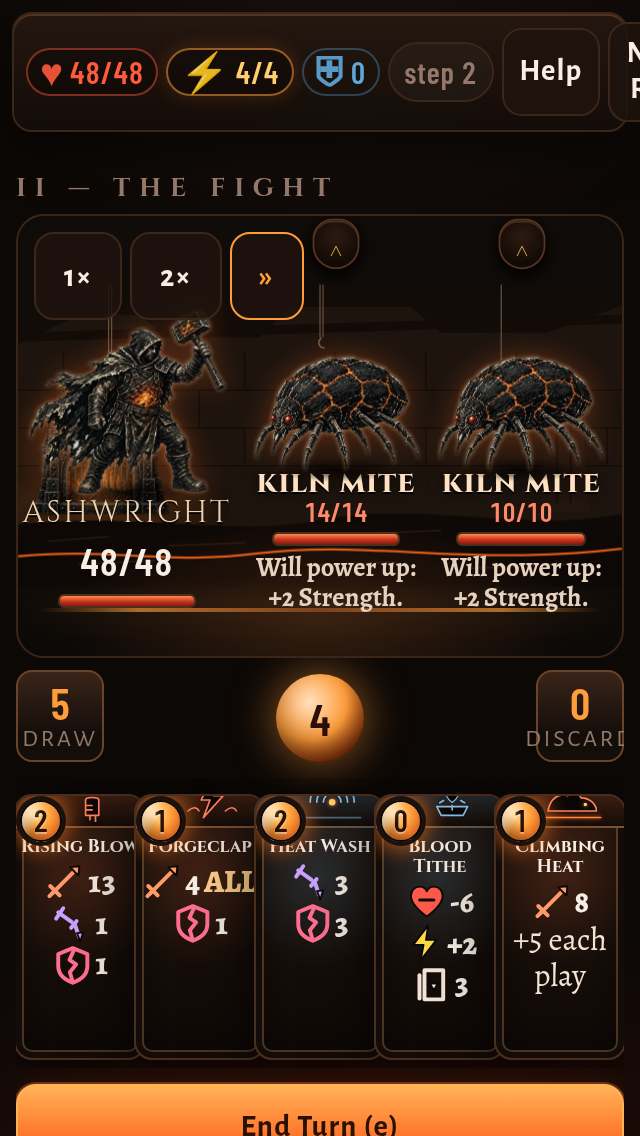
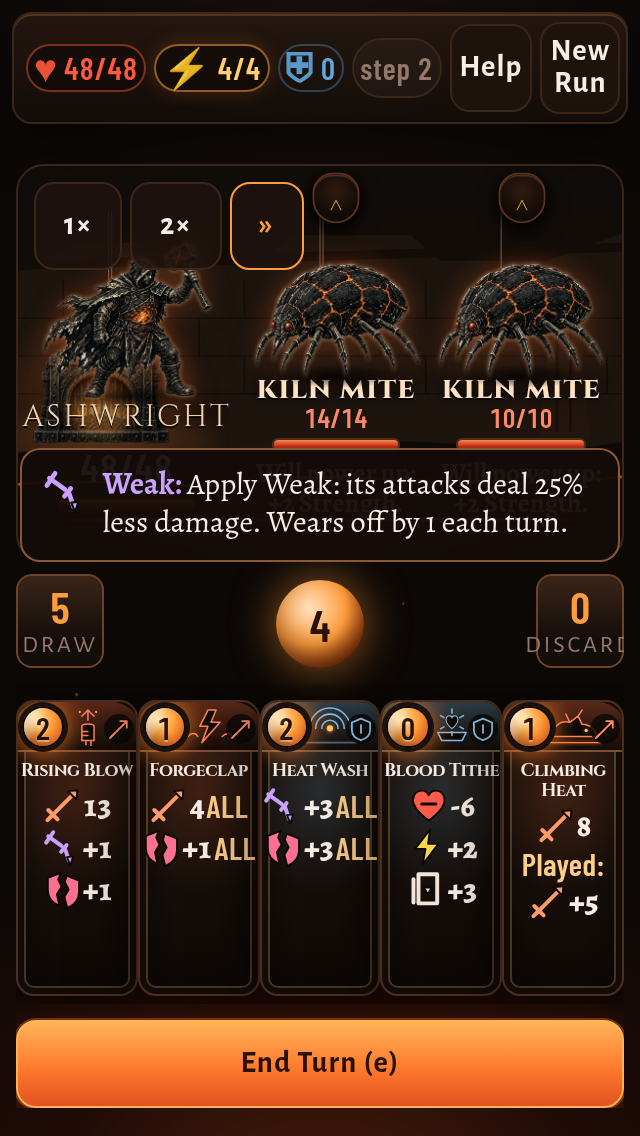
pr-shots: #53 design-fix screenshots (320/360/412 at 100/130%: longest, tempered, triggers, touch preview after release) and mapping with tempered rows

diff --git a/pr29/card-glyph-mapping.md b/pr29/card-glyph-mapping.md
@@ -1,54 +1,160 @@
-# #53 card face: glyph mapping (all 44 cards)
+# #53 card face: glyph mapping (all 44 cards and every legal temper)
 
-What each glyph stands for: `damage` = sword, `block` = shield, `weak` = Weak (snapped blade), `vulnerable` = Vuln (cracked shield), `strength` = Strength (fist), `metallicize` = Metallicize (riveted plate), `draw` = card, `energy` = bolt, `hp` = heart, `discard` = card-away, `exhaust` = flame. `ALL` means every enemy is hit. A plain-text face line is a unique mechanic.
+Glyphs: `damage` sword, `block` whole shield, `weak` snapped blade, `vulnerable` shield split in two offset halves, `strength` fist (knuckles + thumb), `metallicize` riveted plate, `draw` card, `energy` bolt, `hp` heart, `discard` card-away, `exhaust` flame (only as the corner mark of a card that exhausts itself). `ALL` = every living enemy. Signs: gains +N, losses -N; damage unsigned.
 
-Line counts are measured in a real browser by scripts/dev/viewport-check.mjs, at 360x640 and 320x568, both with 130% text. The limit is 3 lines; 4 lines at 320 is a fallback only.
+Order: what happens on play first (repeated glyphs merged into one summed line), then trigger blocks: a **word + colon** on its own line (Turn end:, Exhaust:, HP lost:, Played:) and its lines (↳). Red-hot appears only on cards that deal damage.
 
-| id | name | full sentence (aria-label, preview) | face lines | lines @360x640·130% | lines @320x568·130% |
+Line counts are measured in a real browser by scripts/dev/viewport-check.mjs at 360x640 and 320x568 with 130% text (rows drawn; 3 is the aim, 4 the fallback, every variant must fit its card).
+
+| card | temper | full sentence (aria-label, preview) | face | rows @360·130% | rows @320·130% |
 |---|---|---|---|---|---|
-| strike | Hammerfall | Deal 6 damage to the enemy. | [damage] 6 | 1 | 1 |
-| defend | Quench | Gain 5 Block. | [block] 5 | 1 | 1 |
-| bash | Anvil Blow | Deal 8 damage to the enemy. Apply 2 Vulnerable to the enemy — it takes 50% more damage from attacks. | [damage] 8 / [vulnerable] 2 | 2 | 2 |
-| gust | Bellows Gust | Deal 4 damage to ALL enemies. | [damage] 4 ALL | 1 | 1 |
-| fan_flames | Fan the Flames | Gain 1 Energy. Exhaust this card for the rest of the fight. | [energy] +1 / [exhaust]  | 2 | 2 |
-| anger | Spark | Deal 5 damage to the enemy. | [damage] 5 | 1 | 1 |
-| cleave | Arc Cut | Deal 4 damage to ALL enemies. | [damage] 4 ALL | 1 | 1 |
-| clothesline | Collar Check | Deal 12 damage to the enemy. Apply 2 Weak to the enemy — its attacks deal 25% less damage. | [damage] 12 / [weak] 2 | 2 | 2 |
-| headbutt | Brow Strike | Deal 9 damage to the enemy. | [damage] 9 | 1 | 1 |
-| ironwave | Slag Surge | Gain 5 Block. Deal 5 damage to the enemy. | [block] 5 / [damage] 5 | 2 | 2 |
-| pommel | Haft Jab | Deal 9 damage to the enemy. Draw 1 card. | [damage] 9 / [draw] 1 | 2 | 2 |
-| sword_boomerang | Returning Brand | Deal 3 damage to ALL enemies. | [damage] 3 ALL | 1 | 1 |
-| thunderclap | Forgeclap | Deal 4 damage to ALL enemies. Apply 1 Vulnerable to the enemy — it takes 50% more damage from attacks. | [damage] 4 ALL / [vulnerable] 1 | 2 | 2 |
-| twin_strike | Twin Hammers | Deal 5 damage to the enemy 2 times. | [damage] 5×2 | 1 | 1 |
-| wild_strike | Untempered | Deal 12 damage to the enemy. | [damage] 12 | 1 | 1 |
-| flex | Bellows | Gain 2 Strength — your attacks deal 2 more damage. | [strength] 2 | 1 | 1 |
-| shrug | Cast Aside | Gain 8 Block. Draw 1 card. | [block] 8 / [draw] 1 | 2 | 2 |
-| true_grit | True Temper | Gain 7 Block. | [block] 7 | 1 | 1 |
-| warcry | Kiln Cry | Draw 1 card. Discard 1 card at random. | [draw] 1 / [discard] 1 | 2 | 2 |
-| armaments | Fit the Plate | Gain 5 Block. | [block] 5 | 1 | 1 |
-| havoc | Vent | Draw 1 card. Gain 1 Energy. | [draw] 1 / [energy] +1 | 2 | 2 |
-| battle_trance | Heat Trance | Draw 3 cards. | [draw] 3 | 1 | 1 |
-| bloodletting | Vein Tap | Lose 3 HP. Gain 2 Energy. | [hp] -3 / [energy] +2 | 2 | 2 |
-| carnage | Sunder | Deal 20 damage to the enemy. | [damage] 20 | 1 | 1 |
-| combust | Banked Coal | Gain Combust: at the end of each turn, deal 1 damage to ALL enemies and lose 1 HP. | [damage] 1 ALL / [hp] -1 / "each turn" | 3 | 4 |
-| dark_embrace | Ash Embrace | Gain Dark Embrace: whenever a card is exhausted, draw 1 card. | [exhaust] → / [draw] +1 | 2 | 2 |
-| dropkick | Heel Drop | Deal 5 damage to the enemy. Gain 1 Energy. | [damage] 5 / [energy] +1 | 2 | 2 |
-| entrench | Brace | Double your current Block. Does nothing if you have no Block. | [block] ×2 | 1 | 1 |
-| feel_no_pain | Cinder Skin | Gain Feel No Pain: whenever a card is exhausted, gain 1 Block. | [exhaust] → / [block] +1 | 2 | 2 |
-| flame_barrier | Flame Ward | Gain 12 Block. | [block] 12 | 1 | 1 |
-| ghostly_armor | Cinder Shroud | Gain 10 Block. | [block] 10 | 1 | 1 |
-| hemokinesis | Blood Hammer | Lose 2 HP. Deal 15 damage. | [damage] 15 / [hp] -2 | 2 | 2 |
-| inflame | Stoke | Gain 2 Strength — your attacks deal 2 more damage. | [strength] 2 | 1 | 1 |
-| metallicize | Scale Up | Gain 3 Metallicize — gain 3 Block at the end of each turn. | [metallicize] 3 | 1 | 1 |
-| pummel | Hail of Blows | Deal 2 damage to the enemy 4 times. Exhaust this card for the rest of the fight. | [damage] 2×4 / [exhaust]  | 2 | 2 |
-| rampage | Climbing Heat | Deal 8 damage. This card gains +5 damage permanently each time you play it. | [damage] 8 / "+5 each play" | 3 | 3 |
-| rupture | Split Seam | Gain Rupture: whenever a card makes you lose HP, gain 1 Strength. | "HP lost:" / [strength] +1 | 2 | 2 |
-| shockwave | Heat Wash | Apply 3 Weak to the enemy — its attacks deal 25% less damage. Apply 3 Vulnerable to the enemy — it takes 50% more damage from attacks. | [weak] 3 / [vulnerable] 3 | 2 | 2 |
-| uppercut | Rising Blow | Deal 13 damage to the enemy. Apply 1 Weak to the enemy — its attacks deal 25% less damage. Apply 1 Vulnerable to the enemy — it takes 50% more damage from attacks. | [damage] 13 / [weak] 1 / [vulnerable] 1 | 3 | 3 |
-| bludgeon | Maul | Deal 32 damage to the enemy. | [damage] 32 | 1 | 1 |
-| impervious | Unbroken | Gain 30 Block. Exhaust this card for the rest of the fight. | [block] 30 / [exhaust]  | 2 | 2 |
-| limit_break | Overtemper | Double your current Strength. Does nothing if you have no Strength. | [strength] ×2 | 1 | 1 |
-| offering | Blood Tithe | Lose 6 HP. Gain 2 Energy. Draw 3 cards. | [hp] -6 / [energy] +2 / [draw] 3 | 3 | 3 |
-| reaper | Ash Harvest | Deal 4 damage to ALL enemies. Heal HP equal to the damage dealt. | [damage] 4 ALL / "Heal that much" | 3 | 3 |
-
-Over 3 lines at 320x568·130% (uses the 4-line fallback): combust. Over 3 lines at 360x640·130%: none.
+| strike (Hammerfall) | — | Deal 6 damage to the enemy. | [damage] 6 | 1 | 1 |
+| strike (Hammerfall) | quenched | Deal 6 damage to the enemy. Gain 3 Block. | [damage] 6 / [block] +3 | 2 | 2 |
+| strike (Hammerfall) | redhot | Deal 9 damage to the enemy. Lose 2 HP. | [damage] 9 / [hp] -2 | 2 | 2 |
+| strike (Hammerfall) | balanced | Deal 6 damage to the enemy. Draw 1 card. Exhaust this card for the rest of the fight. | [damage] 6 / [draw] +1 / (corner exhaust flame) | 2 | 2 |
+| defend (Quench) | — | Gain 5 Block. | [block] +5 | 1 | 1 |
+| defend (Quench) | quenched | Gain 5 Block. Gain 3 Block. | [block] +8 | 1 | 1 |
+| defend (Quench) | balanced | Gain 5 Block. Draw 1 card. Exhaust this card for the rest of the fight. | [block] +5 / [draw] +1 / (corner exhaust flame) | 2 | 2 |
+| bash (Anvil Blow) | — | Deal 8 damage to the enemy. Apply 2 Vulnerable to the enemy — it takes 50% more damage from attacks. | [damage] 8 / [vulnerable] +2 | 2 | 2 |
+| bash (Anvil Blow) | quenched | Deal 8 damage to the enemy. Apply 2 Vulnerable to the enemy — it takes 50% more damage from attacks. Gain 3 Block. | [damage] 8 / [block] +3 / [vulnerable] +2 | 3 | 3 |
+| bash (Anvil Blow) | redhot | Deal 12 damage to the enemy. Apply 2 Vulnerable to the enemy — it takes 50% more damage from attacks. Lose 2 HP. | [damage] 12 / [vulnerable] +2 / [hp] -2 | 3 | 3 |
+| bash (Anvil Blow) | balanced | Deal 8 damage to the enemy. Apply 2 Vulnerable to the enemy — it takes 50% more damage from attacks. Draw 1 card. Exhaust this card for the rest of the fight. | [damage] 8 / [vulnerable] +2 / [draw] +1 / (corner exhaust flame) | 3 | 3 |
+| gust (Bellows Gust) | — | Deal 4 damage to ALL enemies. | [damage] 4 ALL | 1 | 1 |
+| gust (Bellows Gust) | quenched | Deal 4 damage to ALL enemies. Gain 3 Block. | [damage] 4 ALL / [block] +3 | 2 | 2 |
+| gust (Bellows Gust) | redhot | Deal 6 damage to ALL enemies. Lose 2 HP. | [damage] 6 ALL / [hp] -2 | 2 | 2 |
+| gust (Bellows Gust) | balanced | Deal 4 damage to ALL enemies. Draw 1 card. Exhaust this card for the rest of the fight. | [damage] 4 ALL / [draw] +1 / (corner exhaust flame) | 2 | 2 |
+| fan_flames (Fan the Flames) | — | Gain 1 Energy. Exhaust this card for the rest of the fight. | [energy] +1 / (corner exhaust flame) | 1 | 1 |
+| fan_flames (Fan the Flames) | quenched | Gain 1 Energy. Exhaust this card for the rest of the fight. Gain 3 Block. | [block] +3 / [energy] +1 / (corner exhaust flame) | 2 | 2 |
+| fan_flames (Fan the Flames) | balanced | Gain 1 Energy. Exhaust this card for the rest of the fight. Draw 1 card. | [energy] +1 / [draw] +1 / (corner exhaust flame) | 2 | 2 |
+| anger (Spark) | — | Deal 5 damage to the enemy. | [damage] 5 | 1 | 1 |
+| anger (Spark) | quenched | Deal 5 damage to the enemy. Gain 3 Block. | [damage] 5 / [block] +3 | 2 | 2 |
+| anger (Spark) | redhot | Deal 7 damage to the enemy. Lose 2 HP. | [damage] 7 / [hp] -2 | 2 | 2 |
+| anger (Spark) | balanced | Deal 5 damage to the enemy. Draw 1 card. Exhaust this card for the rest of the fight. | [damage] 5 / [draw] +1 / (corner exhaust flame) | 2 | 2 |
+| cleave (Arc Cut) | — | Deal 4 damage to ALL enemies. | [damage] 4 ALL | 1 | 1 |
+| cleave (Arc Cut) | quenched | Deal 4 damage to ALL enemies. Gain 3 Block. | [damage] 4 ALL / [block] +3 | 2 | 2 |
+| cleave (Arc Cut) | redhot | Deal 6 damage to ALL enemies. Lose 2 HP. | [damage] 6 ALL / [hp] -2 | 2 | 2 |
+| cleave (Arc Cut) | balanced | Deal 4 damage to ALL enemies. Draw 1 card. Exhaust this card for the rest of the fight. | [damage] 4 ALL / [draw] +1 / (corner exhaust flame) | 2 | 2 |
+| clothesline (Collar Check) | — | Deal 12 damage to the enemy. Apply 2 Weak to the enemy — its attacks deal 25% less damage. | [damage] 12 / [weak] +2 | 2 | 2 |
+| clothesline (Collar Check) | quenched | Deal 12 damage to the enemy. Apply 2 Weak to the enemy — its attacks deal 25% less damage. Gain 3 Block. | [damage] 12 / [block] +3 / [weak] +2 | 3 | 3 |
+| clothesline (Collar Check) | redhot | Deal 18 damage to the enemy. Apply 2 Weak to the enemy — its attacks deal 25% less damage. Lose 2 HP. | [damage] 18 / [weak] +2 / [hp] -2 | 3 | 3 |
+| clothesline (Collar Check) | balanced | Deal 12 damage to the enemy. Apply 2 Weak to the enemy — its attacks deal 25% less damage. Draw 1 card. Exhaust this card for the rest of the fight. | [damage] 12 / [weak] +2 / [draw] +1 / (corner exhaust flame) | 3 | 3 |
+| headbutt (Brow Strike) | — | Deal 9 damage to the enemy. | [damage] 9 | 1 | 1 |
+| headbutt (Brow Strike) | quenched | Deal 9 damage to the enemy. Gain 3 Block. | [damage] 9 / [block] +3 | 2 | 2 |
+| headbutt (Brow Strike) | redhot | Deal 13 damage to the enemy. Lose 2 HP. | [damage] 13 / [hp] -2 | 2 | 2 |
+| headbutt (Brow Strike) | balanced | Deal 9 damage to the enemy. Draw 1 card. Exhaust this card for the rest of the fight. | [damage] 9 / [draw] +1 / (corner exhaust flame) | 2 | 2 |
+| ironwave (Slag Surge) | — | Gain 5 Block. Deal 5 damage to the enemy. | [block] +5 / [damage] 5 | 2 | 2 |
+| ironwave (Slag Surge) | quenched | Gain 5 Block. Deal 5 damage to the enemy. Gain 3 Block. | [block] +8 / [damage] 5 | 2 | 2 |
+| ironwave (Slag Surge) | redhot | Gain 5 Block. Deal 7 damage to the enemy. Lose 2 HP. | [block] +5 / [damage] 7 / [hp] -2 | 3 | 3 |
+| ironwave (Slag Surge) | balanced | Gain 5 Block. Deal 5 damage to the enemy. Draw 1 card. Exhaust this card for the rest of the fight. | [block] +5 / [damage] 5 / [draw] +1 / (corner exhaust flame) | 3 | 3 |
+| pommel (Haft Jab) | — | Deal 9 damage to the enemy. Draw 1 card. | [damage] 9 / [draw] +1 | 2 | 2 |
+| pommel (Haft Jab) | quenched | Deal 9 damage to the enemy. Draw 1 card. Gain 3 Block. | [damage] 9 / [block] +3 / [draw] +1 | 3 | 3 |
+| pommel (Haft Jab) | redhot | Deal 13 damage to the enemy. Draw 1 card. Lose 2 HP. | [damage] 13 / [draw] +1 / [hp] -2 | 3 | 3 |
+| pommel (Haft Jab) | balanced | Deal 9 damage to the enemy. Draw 1 card. Draw 1 card. Exhaust this card for the rest of the fight. | [damage] 9 / [draw] +2 / (corner exhaust flame) | 2 | 2 |
+| sword_boomerang (Returning Brand) | — | Deal 3 damage to ALL enemies. | [damage] 3 ALL | 1 | 1 |
+| sword_boomerang (Returning Brand) | quenched | Deal 3 damage to ALL enemies. Gain 3 Block. | [damage] 3 ALL / [block] +3 | 2 | 2 |
+| sword_boomerang (Returning Brand) | redhot | Deal 4 damage to ALL enemies. Lose 2 HP. | [damage] 4 ALL / [hp] -2 | 2 | 2 |
+| sword_boomerang (Returning Brand) | balanced | Deal 3 damage to ALL enemies. Draw 1 card. Exhaust this card for the rest of the fight. | [damage] 3 ALL / [draw] +1 / (corner exhaust flame) | 2 | 2 |
+| thunderclap (Forgeclap) | — | Deal 4 damage to ALL enemies. Apply 1 Vulnerable to ALL enemies — it takes 50% more damage from attacks. | [damage] 4 ALL / [vulnerable] +1 ALL | 2 | 2 |
+| thunderclap (Forgeclap) | quenched | Deal 4 damage to ALL enemies. Apply 1 Vulnerable to ALL enemies — it takes 50% more damage from attacks. Gain 3 Block. | [damage] 4 ALL / [block] +3 / [vulnerable] +1 ALL | 3 | 3 |
+| thunderclap (Forgeclap) | redhot | Deal 6 damage to ALL enemies. Apply 1 Vulnerable to ALL enemies — it takes 50% more damage from attacks. Lose 2 HP. | [damage] 6 ALL / [vulnerable] +1 ALL / [hp] -2 | 3 | 3 |
+| thunderclap (Forgeclap) | balanced | Deal 4 damage to ALL enemies. Apply 1 Vulnerable to ALL enemies — it takes 50% more damage from attacks. Draw 1 card. Exhaust this card for the rest of the fight. | [damage] 4 ALL / [vulnerable] +1 ALL / [draw] +1 / (corner exhaust flame) | 3 | 3 |
+| twin_strike (Twin Hammers) | — | Deal 5 damage to the enemy 2 times. | [damage] 5×2 | 1 | 1 |
+| twin_strike (Twin Hammers) | quenched | Deal 5 damage to the enemy 2 times. Gain 3 Block. | [damage] 5×2 / [block] +3 | 2 | 2 |
+| twin_strike (Twin Hammers) | redhot | Deal 7 damage to the enemy 2 times. Lose 2 HP. | [damage] 7×2 / [hp] -2 | 2 | 2 |
+| twin_strike (Twin Hammers) | balanced | Deal 5 damage to the enemy 2 times. Draw 1 card. Exhaust this card for the rest of the fight. | [damage] 5×2 / [draw] +1 / (corner exhaust flame) | 2 | 2 |
+| wild_strike (Untempered) | — | Deal 12 damage to the enemy. | [damage] 12 | 1 | 1 |
+| wild_strike (Untempered) | quenched | Deal 12 damage to the enemy. Gain 3 Block. | [damage] 12 / [block] +3 | 2 | 2 |
+| wild_strike (Untempered) | redhot | Deal 18 damage to the enemy. Lose 2 HP. | [damage] 18 / [hp] -2 | 2 | 2 |
+| wild_strike (Untempered) | balanced | Deal 12 damage to the enemy. Draw 1 card. Exhaust this card for the rest of the fight. | [damage] 12 / [draw] +1 / (corner exhaust flame) | 2 | 2 |
+| flex (Bellows) | — | Gain 2 Strength — your attacks deal 2 more damage. | [strength] +2 | 1 | 1 |
+| flex (Bellows) | quenched | Gain 2 Strength — your attacks deal 2 more damage. Gain 3 Block. | [block] +3 / [strength] +2 | 2 | 2 |
+| flex (Bellows) | balanced | Gain 2 Strength — your attacks deal 2 more damage. Draw 1 card. Exhaust this card for the rest of the fight. | [strength] +2 / [draw] +1 / (corner exhaust flame) | 2 | 2 |
+| shrug (Cast Aside) | — | Gain 8 Block. Draw 1 card. | [block] +8 / [draw] +1 | 2 | 2 |
+| shrug (Cast Aside) | quenched | Gain 8 Block. Draw 1 card. Gain 3 Block. | [block] +11 / [draw] +1 | 2 | 2 |
+| shrug (Cast Aside) | balanced | Gain 8 Block. Draw 1 card. Draw 1 card. Exhaust this card for the rest of the fight. | [block] +8 / [draw] +2 / (corner exhaust flame) | 2 | 2 |
+| true_grit (True Temper) | — | Gain 7 Block. | [block] +7 | 1 | 1 |
+| true_grit (True Temper) | quenched | Gain 7 Block. Gain 3 Block. | [block] +10 | 1 | 1 |
+| true_grit (True Temper) | balanced | Gain 7 Block. Draw 1 card. Exhaust this card for the rest of the fight. | [block] +7 / [draw] +1 / (corner exhaust flame) | 2 | 2 |
+| warcry (Kiln Cry) | — | Draw 1 card. Discard 1 card at random. | [draw] +1 / [discard] -1 | 2 | 2 |
+| warcry (Kiln Cry) | quenched | Draw 1 card. Discard 1 card at random. Gain 3 Block. | [block] +3 / [draw] +1 / [discard] -1 | 3 | 3 |
+| warcry (Kiln Cry) | balanced | Draw 1 card. Discard 1 card at random. Draw 1 card. Exhaust this card for the rest of the fight. | [draw] +2 / [discard] -1 / (corner exhaust flame) | 2 | 2 |
+| armaments (Fit the Plate) | — | Gain 5 Block. | [block] +5 | 1 | 1 |
+| armaments (Fit the Plate) | quenched | Gain 5 Block. Gain 3 Block. | [block] +8 | 1 | 1 |
+| armaments (Fit the Plate) | balanced | Gain 5 Block. Draw 1 card. Exhaust this card for the rest of the fight. | [block] +5 / [draw] +1 / (corner exhaust flame) | 2 | 2 |
+| havoc (Vent) | — | Draw 1 card. Gain 1 Energy. | [draw] +1 / [energy] +1 | 2 | 2 |
+| havoc (Vent) | quenched | Draw 1 card. Gain 1 Energy. Gain 3 Block. | [block] +3 / [draw] +1 / [energy] +1 | 3 | 3 |
+| havoc (Vent) | balanced | Draw 1 card. Gain 1 Energy. Draw 1 card. Exhaust this card for the rest of the fight. | [draw] +2 / [energy] +1 / (corner exhaust flame) | 2 | 2 |
+| battle_trance (Heat Trance) | — | Draw 3 cards. | [draw] +3 | 1 | 1 |
+| battle_trance (Heat Trance) | quenched | Draw 3 cards. Gain 3 Block. | [block] +3 / [draw] +3 | 2 | 2 |
+| battle_trance (Heat Trance) | balanced | Draw 3 cards. Draw 1 card. Exhaust this card for the rest of the fight. | [draw] +4 / (corner exhaust flame) | 1 | 1 |
+| bloodletting (Vein Tap) | — | Lose 3 HP. Gain 2 Energy. | [hp] -3 / [energy] +2 | 2 | 2 |
+| bloodletting (Vein Tap) | quenched | Lose 3 HP. Gain 2 Energy. Gain 3 Block. | [block] +3 / [hp] -3 / [energy] +2 | 3 | 3 |
+| bloodletting (Vein Tap) | balanced | Lose 3 HP. Gain 2 Energy. Draw 1 card. Exhaust this card for the rest of the fight. | [hp] -3 / [energy] +2 / [draw] +1 / (corner exhaust flame) | 3 | 3 |
+| carnage (Sunder) | — | Deal 20 damage to the enemy. | [damage] 20 | 1 | 1 |
+| carnage (Sunder) | quenched | Deal 20 damage to the enemy. Gain 3 Block. | [damage] 20 / [block] +3 | 2 | 2 |
+| carnage (Sunder) | redhot | Deal 30 damage to the enemy. Lose 2 HP. | [damage] 30 / [hp] -2 | 2 | 2 |
+| carnage (Sunder) | balanced | Deal 20 damage to the enemy. Draw 1 card. Exhaust this card for the rest of the fight. | [damage] 20 / [draw] +1 / (corner exhaust flame) | 2 | 2 |
+| combust (Banked Coal) | — | Gain Combust: at the end of each turn, deal 1 damage to ALL enemies and lose 1 HP. | **Turn end:** / ↳ [damage] 1 ALL / ↳ [hp] -1 | 3 | 3 |
+| combust (Banked Coal) | quenched | Gain Combust: at the end of each turn, deal 1 damage to ALL enemies and lose 1 HP. Gain 3 Block. | [block] +3 / **Turn end:** / ↳ [damage] 1 ALL / ↳ [hp] -1 | 4 | 4 |
+| combust (Banked Coal) | balanced | Gain Combust: at the end of each turn, deal 1 damage to ALL enemies and lose 1 HP. Draw 1 card. Exhaust this card for the rest of the fight. | [draw] +1 / **Turn end:** / ↳ [damage] 1 ALL / ↳ [hp] -1 / (corner exhaust flame) | 4 | 4 |
+| dark_embrace (Ash Embrace) | — | Gain Dark Embrace: whenever a card is exhausted, draw 1 card. | **Exhaust:** / ↳ [draw] +1 | 2 | 2 |
+| dark_embrace (Ash Embrace) | quenched | Gain Dark Embrace: whenever a card is exhausted, draw 1 card. Gain 3 Block. | [block] +3 / **Exhaust:** / ↳ [draw] +1 | 3 | 3 |
+| dark_embrace (Ash Embrace) | balanced | Gain Dark Embrace: whenever a card is exhausted, draw 1 card. Draw 1 card. Exhaust this card for the rest of the fight. | [draw] +1 / **Exhaust:** / ↳ [draw] +1 / (corner exhaust flame) | 3 | 3 |
+| dropkick (Heel Drop) | — | Deal 5 damage to the enemy. Gain 1 Energy. | [damage] 5 / [energy] +1 | 2 | 2 |
+| dropkick (Heel Drop) | quenched | Deal 5 damage to the enemy. Gain 1 Energy. Gain 3 Block. | [damage] 5 / [block] +3 / [energy] +1 | 3 | 3 |
+| dropkick (Heel Drop) | redhot | Deal 7 damage to the enemy. Gain 1 Energy. Lose 2 HP. | [damage] 7 / [energy] +1 / [hp] -2 | 3 | 3 |
+| dropkick (Heel Drop) | balanced | Deal 5 damage to the enemy. Gain 1 Energy. Draw 1 card. Exhaust this card for the rest of the fight. | [damage] 5 / [energy] +1 / [draw] +1 / (corner exhaust flame) | 3 | 3 |
+| entrench (Brace) | — | Double your current Block. Does nothing if you have no Block. | [block] ×2 | 1 | 1 |
+| entrench (Brace) | quenched | Double your current Block. Does nothing if you have no Block. Gain 3 Block. | [block] ×2 / [block] +3 | 2 | 2 |
+| entrench (Brace) | balanced | Double your current Block. Does nothing if you have no Block. Draw 1 card. Exhaust this card for the rest of the fight. | [block] ×2 / [draw] +1 / (corner exhaust flame) | 2 | 2 |
+| feel_no_pain (Cinder Skin) | — | Gain Feel No Pain: whenever a card is exhausted, gain 1 Block. | **Exhaust:** / ↳ [block] +1 | 2 | 2 |
+| feel_no_pain (Cinder Skin) | quenched | Gain Feel No Pain: whenever a card is exhausted, gain 1 Block. Gain 3 Block. | [block] +3 / **Exhaust:** / ↳ [block] +1 | 3 | 3 |
+| feel_no_pain (Cinder Skin) | balanced | Gain Feel No Pain: whenever a card is exhausted, gain 1 Block. Draw 1 card. Exhaust this card for the rest of the fight. | [draw] +1 / **Exhaust:** / ↳ [block] +1 / (corner exhaust flame) | 3 | 3 |
+| flame_barrier (Flame Ward) | — | Gain 12 Block. | [block] +12 | 1 | 1 |
+| flame_barrier (Flame Ward) | quenched | Gain 12 Block. Gain 3 Block. | [block] +15 | 1 | 1 |
+| flame_barrier (Flame Ward) | balanced | Gain 12 Block. Draw 1 card. Exhaust this card for the rest of the fight. | [block] +12 / [draw] +1 / (corner exhaust flame) | 2 | 2 |
+| ghostly_armor (Cinder Shroud) | — | Gain 10 Block. | [block] +10 | 1 | 1 |
+| ghostly_armor (Cinder Shroud) | quenched | Gain 10 Block. Gain 3 Block. | [block] +13 | 1 | 1 |
+| ghostly_armor (Cinder Shroud) | balanced | Gain 10 Block. Draw 1 card. Exhaust this card for the rest of the fight. | [block] +10 / [draw] +1 / (corner exhaust flame) | 2 | 2 |
+| hemokinesis (Blood Hammer) | — | Lose 2 HP. Deal 15 damage. | [damage] 15 / [hp] -2 | 2 | 2 |
+| hemokinesis (Blood Hammer) | quenched | Lose 2 HP. Deal 15 damage. Gain 3 Block. | [damage] 15 / [block] +3 / [hp] -2 | 3 | 3 |
+| hemokinesis (Blood Hammer) | balanced | Lose 2 HP. Deal 15 damage. Draw 1 card. Exhaust this card for the rest of the fight. | [damage] 15 / [hp] -2 / [draw] +1 / (corner exhaust flame) | 3 | 3 |
+| inflame (Stoke) | — | Gain 2 Strength — your attacks deal 2 more damage. | [strength] +2 | 1 | 1 |
+| inflame (Stoke) | quenched | Gain 2 Strength — your attacks deal 2 more damage. Gain 3 Block. | [block] +3 / [strength] +2 | 2 | 2 |
+| inflame (Stoke) | balanced | Gain 2 Strength — your attacks deal 2 more damage. Draw 1 card. Exhaust this card for the rest of the fight. | [strength] +2 / [draw] +1 / (corner exhaust flame) | 2 | 2 |
+| metallicize (Scale Up) | — | Gain 3 Metallicize — gain 3 Block at the end of each turn. | [metallicize] +3 | 1 | 1 |
+| metallicize (Scale Up) | quenched | Gain 3 Metallicize — gain 3 Block at the end of each turn. Gain 3 Block. | [block] +3 / [metallicize] +3 | 2 | 2 |
+| metallicize (Scale Up) | balanced | Gain 3 Metallicize — gain 3 Block at the end of each turn. Draw 1 card. Exhaust this card for the rest of the fight. | [metallicize] +3 / [draw] +1 / (corner exhaust flame) | 2 | 2 |
+| pummel (Hail of Blows) | — | Deal 2 damage to the enemy 4 times. Exhaust this card for the rest of the fight. | [damage] 2×4 / (corner exhaust flame) | 1 | 1 |
+| pummel (Hail of Blows) | quenched | Deal 2 damage to the enemy 4 times. Exhaust this card for the rest of the fight. Gain 3 Block. | [damage] 2×4 / [block] +3 / (corner exhaust flame) | 2 | 2 |
+| pummel (Hail of Blows) | redhot | Deal 3 damage to the enemy 4 times. Exhaust this card for the rest of the fight. Lose 2 HP. | [damage] 3×4 / [hp] -2 / (corner exhaust flame) | 2 | 2 |
+| pummel (Hail of Blows) | balanced | Deal 2 damage to the enemy 4 times. Exhaust this card for the rest of the fight. Draw 1 card. | [damage] 2×4 / [draw] +1 / (corner exhaust flame) | 2 | 2 |
+| rampage (Climbing Heat) | — | Deal 8 damage. This card gains +5 damage permanently each time you play it. | [damage] 8 / **Played:** / ↳ [damage] +5 | 3 | 3 |
+| rampage (Climbing Heat) | quenched | Deal 8 damage. This card gains +5 damage permanently each time you play it. Gain 3 Block. | [damage] 8 / [block] +3 / **Played:** / ↳ [damage] +5 | 4 | 4 |
+| rampage (Climbing Heat) | balanced | Deal 8 damage. This card gains +5 damage permanently each time you play it. Draw 1 card. Exhaust this card for the rest of the fight. | [damage] 8 / [draw] +1 / **Played:** / ↳ [damage] +5 / (corner exhaust flame) | 4 | 4 |
+| rupture (Split Seam) | — | Gain Rupture: whenever a card makes you lose HP, gain 1 Strength. | **HP lost:** / ↳ [strength] +1 | 2 | 2 |
+| rupture (Split Seam) | quenched | Gain Rupture: whenever a card makes you lose HP, gain 1 Strength. Gain 3 Block. | [block] +3 / **HP lost:** / ↳ [strength] +1 | 3 | 3 |
+| rupture (Split Seam) | balanced | Gain Rupture: whenever a card makes you lose HP, gain 1 Strength. Draw 1 card. Exhaust this card for the rest of the fight. | [draw] +1 / **HP lost:** / ↳ [strength] +1 / (corner exhaust flame) | 3 | 3 |
+| shockwave (Heat Wash) | — | Apply 3 Weak to ALL enemies — its attacks deal 25% less damage. Apply 3 Vulnerable to ALL enemies — it takes 50% more damage from attacks. | [weak] +3 ALL / [vulnerable] +3 ALL | 2 | 2 |
+| shockwave (Heat Wash) | quenched | Apply 3 Weak to ALL enemies — its attacks deal 25% less damage. Apply 3 Vulnerable to ALL enemies — it takes 50% more damage from attacks. Gain 3 Block. | [block] +3 / [weak] +3 ALL / [vulnerable] +3 ALL | 3 | 3 |
+| shockwave (Heat Wash) | balanced | Apply 3 Weak to ALL enemies — its attacks deal 25% less damage. Apply 3 Vulnerable to ALL enemies — it takes 50% more damage from attacks. Draw 1 card. Exhaust this card for the rest of the fight. | [weak] +3 ALL / [vulnerable] +3 ALL / [draw] +1 / (corner exhaust flame) | 3 | 3 |
+| uppercut (Rising Blow) | — | Deal 13 damage to the enemy. Apply 1 Weak to the enemy — its attacks deal 25% less damage. Apply 1 Vulnerable to the enemy — it takes 50% more damage from attacks. | [damage] 13 / [weak] +1 / [vulnerable] +1 | 3 | 3 |
+| uppercut (Rising Blow) | quenched | Deal 13 damage to the enemy. Apply 1 Weak to the enemy — its attacks deal 25% less damage. Apply 1 Vulnerable to the enemy — it takes 50% more damage from attacks. Gain 3 Block. | [damage] 13 / [block] +3 / [weak] +1 / [vulnerable] +1 | 4 | 4 |
+| uppercut (Rising Blow) | redhot | Deal 19 damage to the enemy. Apply 1 Weak to the enemy — its attacks deal 25% less damage. Apply 1 Vulnerable to the enemy — it takes 50% more damage from attacks. Lose 2 HP. | [damage] 19 / [weak] +1 / [vulnerable] +1 / [hp] -2 | 4 | 4 |
+| uppercut (Rising Blow) | balanced | Deal 13 damage to the enemy. Apply 1 Weak to the enemy — its attacks deal 25% less damage. Apply 1 Vulnerable to the enemy — it takes 50% more damage from attacks. Draw 1 card. Exhaust this card for the rest of the fight. | [damage] 13 / [weak] +1 / [vulnerable] +1 / [draw] +1 / (corner exhaust flame) | 4 | 4 |
+| bludgeon (Maul) | — | Deal 32 damage to the enemy. | [damage] 32 | 1 | 1 |
+| bludgeon (Maul) | quenched | Deal 32 damage to the enemy. Gain 3 Block. | [damage] 32 / [block] +3 | 2 | 2 |
+| bludgeon (Maul) | redhot | Deal 48 damage to the enemy. Lose 2 HP. | [damage] 48 / [hp] -2 | 2 | 2 |
+| bludgeon (Maul) | balanced | Deal 32 damage to the enemy. Draw 1 card. Exhaust this card for the rest of the fight. | [damage] 32 / [draw] +1 / (corner exhaust flame) | 2 | 2 |
+| impervious (Unbroken) | — | Gain 30 Block. Exhaust this card for the rest of the fight. | [block] +30 / (corner exhaust flame) | 1 | 1 |
+| impervious (Unbroken) | quenched | Gain 30 Block. Exhaust this card for the rest of the fight. Gain 3 Block. | [block] +33 / (corner exhaust flame) | 1 | 1 |
+| impervious (Unbroken) | balanced | Gain 30 Block. Exhaust this card for the rest of the fight. Draw 1 card. | [block] +30 / [draw] +1 / (corner exhaust flame) | 2 | 2 |
+| limit_break (Overtemper) | — | Double your current Strength. Does nothing if you have no Strength. | [strength] ×2 | 1 | 1 |
+| limit_break (Overtemper) | quenched | Double your current Strength. Does nothing if you have no Strength. Gain 3 Block. | [block] +3 / [strength] ×2 | 2 | 2 |
+| limit_break (Overtemper) | balanced | Double your current Strength. Does nothing if you have no Strength. Draw 1 card. Exhaust this card for the rest of the fight. | [strength] ×2 / [draw] +1 / (corner exhaust flame) | 2 | 2 |
+| offering (Blood Tithe) | — | Lose 6 HP. Gain 2 Energy. Draw 3 cards. | [hp] -6 / [energy] +2 / [draw] +3 | 3 | 3 |
+| offering (Blood Tithe) | quenched | Lose 6 HP. Gain 2 Energy. Draw 3 cards. Gain 3 Block. | [block] +3 / [hp] -6 / [energy] +2 / [draw] +3 | 4 | 4 |
+| offering (Blood Tithe) | balanced | Lose 6 HP. Gain 2 Energy. Draw 3 cards. Draw 1 card. Exhaust this card for the rest of the fight. | [hp] -6 / [energy] +2 / [draw] +4 / (corner exhaust flame) | 3 | 3 |
+| reaper (Ash Harvest) | — | Deal 4 damage to ALL enemies. Heal HP equal to the damage dealt. | [damage] 4 ALL / "Heal that" | 2 | 2 |
+| reaper (Ash Harvest) | quenched | Deal 4 damage to ALL enemies. Heal HP equal to the damage dealt. Gain 3 Block. | [damage] 4 ALL / [block] +3 / "Heal that" | 3 | 3 |
+| reaper (Ash Harvest) | balanced | Deal 4 damage to ALL enemies. Heal HP equal to the damage dealt. Draw 1 card. Exhaust this card for the rest of the fight. | [damage] 4 ALL / [draw] +1 / "Heal that" / (corner exhaust flame) | 3 | 3 |
